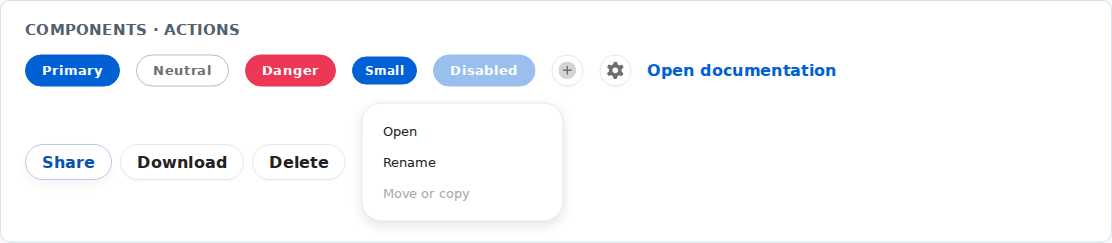
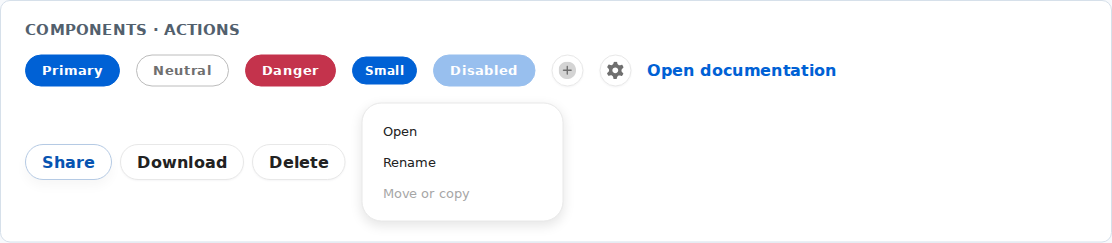
fix(button): raise danger tone text contrast

Changed region(s): [[0.214, 0.2016, 0.3058, 0.3745]]

diff --git a/src/components/actions/button.ts b/src/components/actions/button.ts
@@ -3,6 +3,10 @@ import { boeControl, boeRadius, boeSpace } from "../../foundations/geometry/inde
 import { boeMotionDuration, boeMotionEasing } from "../../foundations/motion/index.js";
 
 const DEFAULT_TAG_NAME = "box-button";
+// The status red is appropriate for accents, but white button text on it
+// misses 4.5:1 in the light theme. Mix toward the theme's primary text color
+// (dark in light mode, light in dark mode) without changing shared error tokens.
+const dangerFill = "var(--boe-button-danger-background, color-mix(in srgb, var(--boe-token-surface-status-surface-error, #ed3757) 80%, var(--boe-token-text-text, #222222) 20%))";
 
 /**
  * Visual language tracks box-ui-elements `.btn` / `.btn-primary`
@@ -103,19 +107,19 @@ const buttonStyles = `
   }
 
   button[data-tone="danger"] {
-    background: var(--boe-token-surface-status-surface-error, #ed3757);
-    border-color: var(--boe-token-surface-status-surface-error, #ed3757);
+    background: ${dangerFill};
+    border-color: ${dangerFill};
     color: var(--boe-token-text-text-on-brand, #ffffff);
   }
 
   button[data-tone="danger"]:hover:not(:disabled) {
-    background: color-mix(in srgb, var(--boe-token-surface-status-surface-error, #ed3757) 92%, white 8%);
-    border-color: color-mix(in srgb, var(--boe-token-surface-status-surface-error, #ed3757) 92%, white 8%);
+    background: color-mix(in srgb, ${dangerFill} 92%, white 8%);
+    border-color: color-mix(in srgb, ${dangerFill} 92%, white 8%);
   }
 
   button[data-tone="danger"]:active:not(:disabled) {
-    background: color-mix(in srgb, var(--boe-token-surface-status-surface-error, #ed3757) 88%, black 12%);
-    border-color: color-mix(in srgb, var(--boe-token-surface-status-surface-error, #ed3757) 88%, black 12%);
+    background: color-mix(in srgb, ${dangerFill} 88%, black 12%);
+    border-color: color-mix(in srgb, ${dangerFill} 88%, black 12%);
   }
 
   button[data-tone="danger"]:focus-visible {

diff --git a/test/foundations/tokens/semantic-contrast.test.ts b/test/foundations/tokens/semantic-contrast.test.ts
@@ -9,6 +9,8 @@ const contrast = (a: number[], b: number[]): number => {
   const [light, dark] = [luminance(a), luminance(b)].sort((x, y) => y - x);
   return (light! + .05) / (dark! + .05);
 };
+const mix = (a: number[], b: number[], amount: number): number[] =>
+  a.map((value, i) => value * amount + b[i]! * (1 - amount));
 
 describe("semantic color pairs", () => {
   for (const theme of [boxDefaultDesignSystem, boxDarkDesignSystem]) {
@@ -16,6 +18,17 @@ describe("semantic color pairs", () => {
     it(`${theme.name}: on-brand text passes in every enabled state`, () => {
       for (const fill of ["SurfaceSurfaceBrand", "SurfaceSurfaceBrandHover", "SurfaceSurfaceBrandPressed"]) {
         expect(contrast(rgb(t.TextTextOnBrand!), rgb(t[fill]!)), fill).toBeGreaterThanOrEqual(4.5);
+      }
+    });
+    it(`${theme.name}: danger button text passes in default, hover and pressed states`, () => {
+      const fill = mix(rgb(t.SurfaceStatusSurfaceError!), rgb(t.TextText!), .8);
+      const ink = rgb(t.TextTextOnBrand!);
+      for (const [state, background] of [
+        ["default", fill],
+        ["hover", mix(fill, [255, 255, 255], .92)],
+        ["pressed", mix(fill, [0, 0, 0], .88)],
+      ] as const) {
+        expect(contrast(ink, background), state).toBeGreaterThanOrEqual(4.5);
       }
     });
     it(`${theme.name}: feedback text and glyphs pass on alert and toast tints`, () => {

diff --git a/test/components/actions/button.test.ts b/test/components/actions/button.test.ts
@@ -33,6 +33,14 @@ describe("Button", () => {
     expect(btn.dataset.size).toBe("small");
   });
 
+  it("derives the danger fill from theme colors and permits a contrast-safe override", () => {
+    const styles = create().shadowRoot?.querySelector("style")?.textContent ?? "";
+    expect(styles).toContain("--boe-button-danger-background");
+    expect(styles).toContain("var(--boe-token-surface-status-surface-error, #ed3757) 80%");
+    expect(styles).toContain("var(--boe-token-text-text, #222222) 20%");
+    expect(styles).toContain("92%, white 8%");
+  });
+
   it("shows a spinner and blocks activation while loading", () => {
     const el = create();
     el.isLoading = true;

diff --git a/docs/foundations/tokens.md b/docs/foundations/tokens.md
@@ -81,6 +81,12 @@ Keep `textOnBrand` paired with all three brand fill states: the dark bundle uses
 dark ink on bright blue, while the light bundle uses white on darker blue.
 Custom themes must check normal, hover and pressed text at 4.5:1 or better.
 
+The Button danger tone derives a stronger fill from `surfaceStatusError` and
+`textPrimary`, leaving the shared status color unchanged. Hosts with a custom
+palette may override `--boe-button-danger-background` on `box-button`; check
+its default, hover, and pressed contrast against `textOnBrand` at 4.5:1 or
+better, including the small size.
+
 `box-dark` is a built-in bundle with the same token keys, icons, and illustrations as `box-default` — only the surface / text / stroke / status values change. Because every component reads `--boe-token-*`, switching the active bundle re-themes the whole catalog with no markup change:
 
 ```ts
